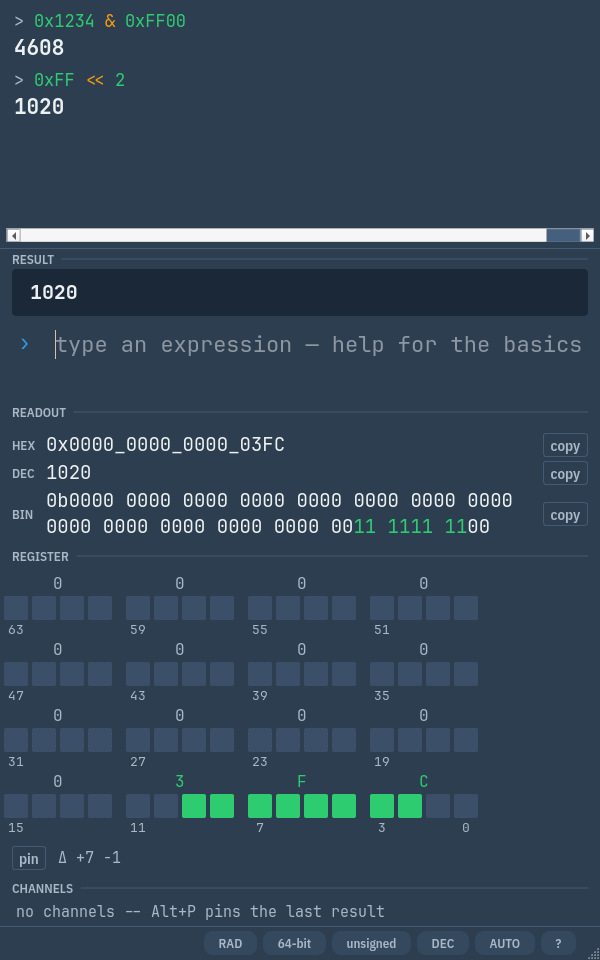
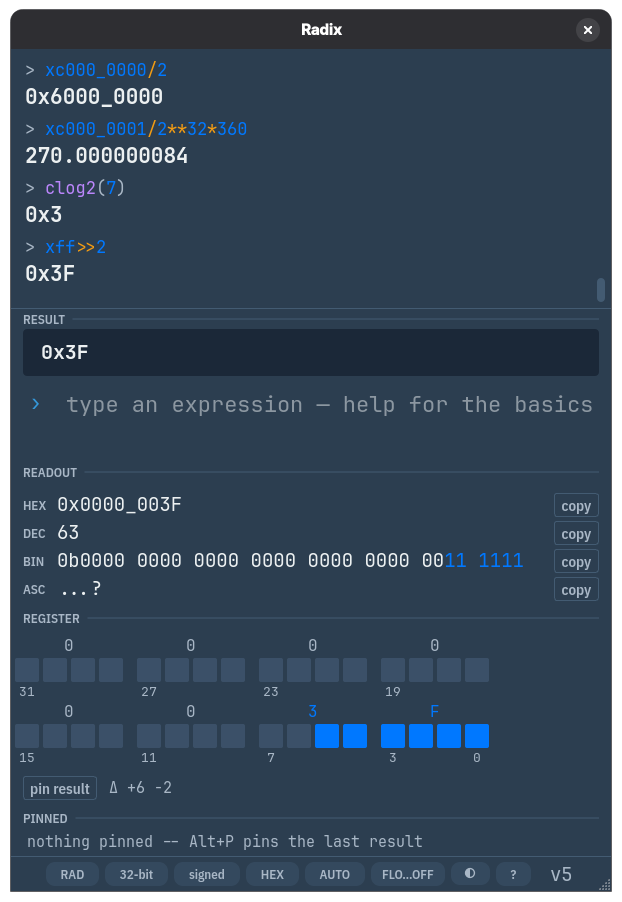
Restore arrow glyphs in fix/unfix help summaries
The QFontMetrics-under-offscreen segfault that forced the ASCII "->"
workaround no longer reproduces with the current Qt/PySide6 and
fontconfig 2.18.2-1 (verified by forcing real font fallback and by
running the full offscreen suite, including the completer-popup and
help-pane tests that measure/paint these exact strings).

diff --git a/src/radix/engine/fpga.py b/src/radix/engine/fpga.py
@@ -392,10 +392,10 @@ _TOOLKIT: list[tuple[str, tuple[int, int], str, str, str, str, Handler]] = [
      "RAM/ROM sizing: total bits, address width, capacity in bytes.",
      "mem(4096, 36) = 147456", _mem),
     ("fix", (3, 3), "value, m, n", _FIXED,
-     "Real -> fixed-point Qm.n raw value (two's complement).",
+     "Real → fixed-point Qm.n raw value (two's complement).",
      "fix(0.7071, 1, 15) = 0x5A82", _fix),
     ("unfix", (3, 3), "raw, m, n", _FIXED,
-     "Fixed-point Qm.n raw value -> real.", "unfix(0x5A82, 1, 15)", _unfix),
+     "Fixed-point Qm.n raw value → real.", "unfix(0x5A82, 1, 15)", _unfix),
     ("float32", (1, 1), "x", _FLOAT,
      "IEEE-754 single: the 32-bit pattern of x, as an integer.",
      "float32(1.5) = 0x3FC0_0000", _float_pack(32)),